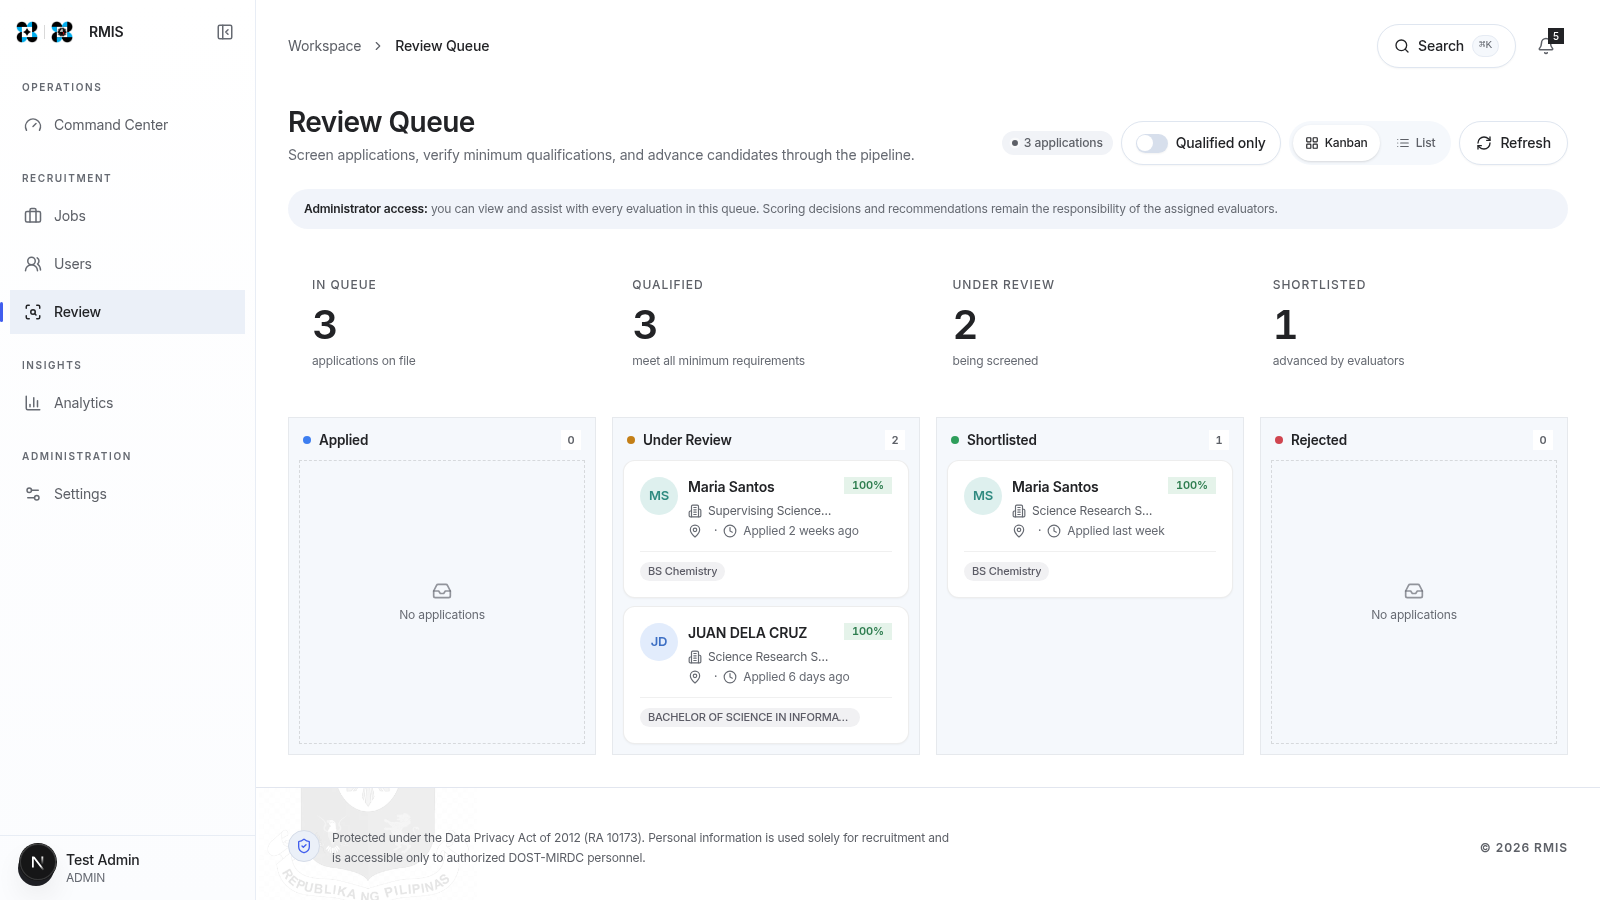
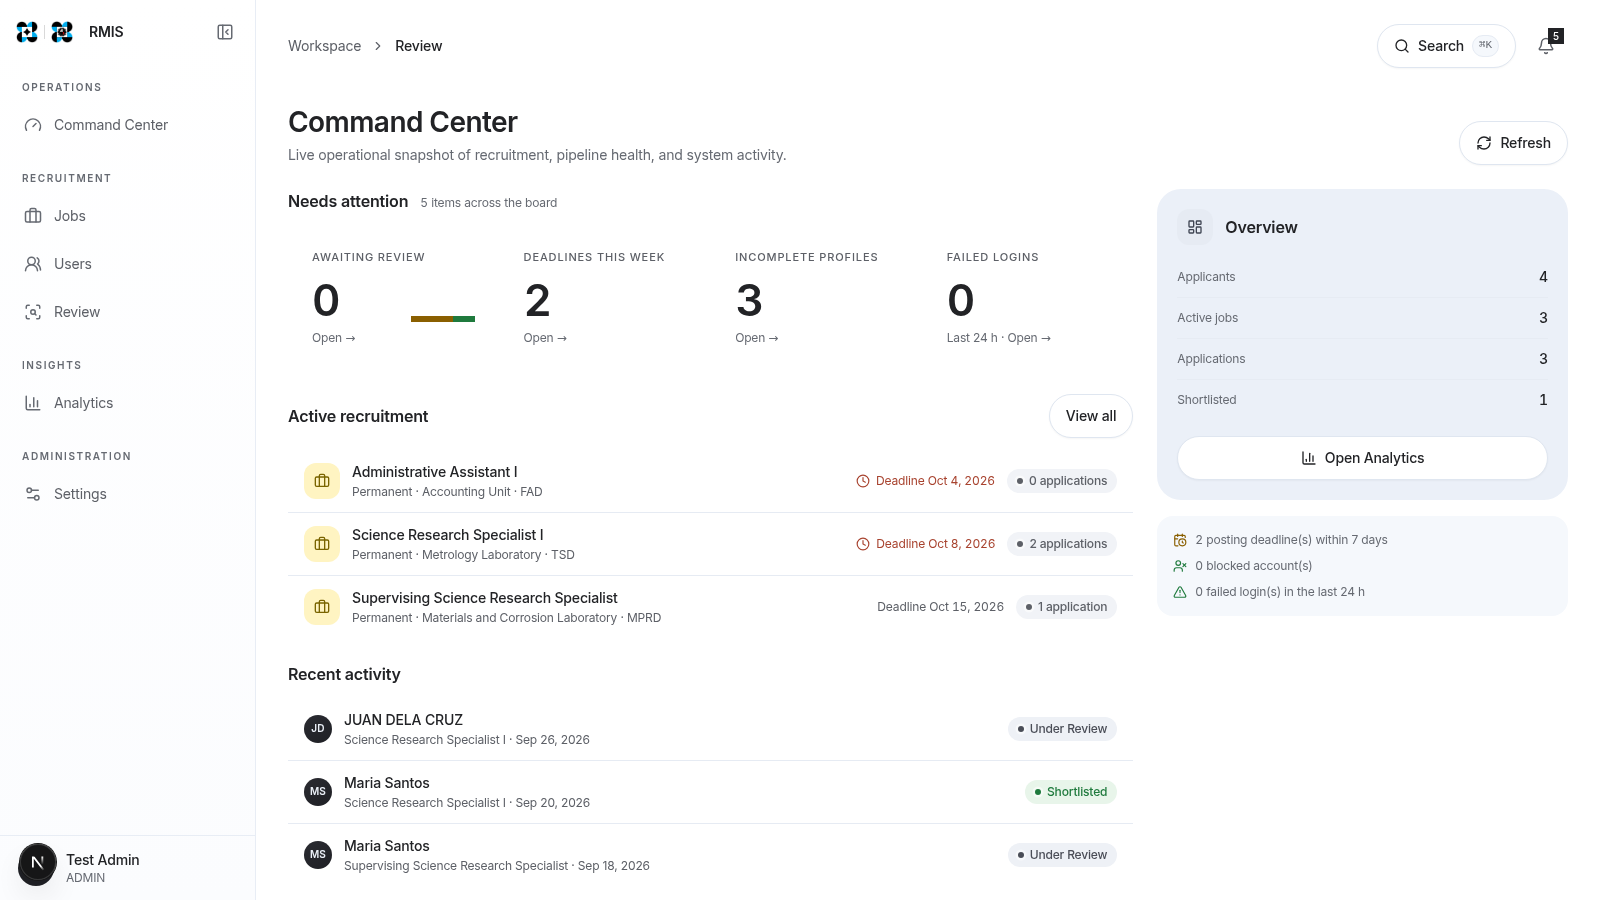
d3562ae5-fced-4e61-bace-6c21aaff8def

diff --git a/worklog.md b/worklog.md
@@ -352,3 +352,23 @@ Stage Summary:
 - TYPOGRAPHY.md created at project root — complete clone-ready typography reference
 - Key facts: single rendered web font (Inter); platform renders SF Pro (macOS) / Segoe UI (Windows) / Inter (elsewhere); weight ceiling 600; 14px+12px working rhythm; global -0.01em tracking
 - Documentation-only change; no code modified
+
+---
+Task ID: 40
+Agent: Z.ai Code (main)
+Task: Remove the stat band (In queue / Qualified / Under review / Shortlisted) from the Review Queue view (evaluator + admin).
+
+Work Log:
+- Located the band: StatLedger block in src/components/views/review-queue.tsx (lines 251-263), fed by a derived `stat` useMemo (lines 158-169)
+- Confirmed Command Center also uses the shared StatLedger primitive and left it untouched (user only asked for Review Queue)
+- Removed: the StatLedger JSX block, the now-unused `stat` useMemo, and the StatCell/StatLedger/StatLedgerSkeleton imports
+- bun run lint: clean
+- Browser-verified as testadmin at 1600x900: #/review-queue shows NO trace of "In queue", "applications on file", "meet all minimum requirements", "being screened", "advanced by evaluators"; page flows header -> admin note -> kanban directly
+- Mobile check at 390x844: scrollWidth 390 == clientWidth 390 (R-03 zero horizontal scroll holds)
+- Console: no errors (only pre-existing unrelated LCP image warning)
+- Committed as 7e8a851 (review-queue.tsx; TYPOGRAPHY.md from Task 39 also tracked in repo)
+
+Stage Summary:
+- Review Queue stat band removed for both admin and evaluator (shared view component)
+- Kanban/List modes, Qualified-only toggle, refresh all intact and rendering
+- Screenshots: tool-results/t39-review-queue-final.png
